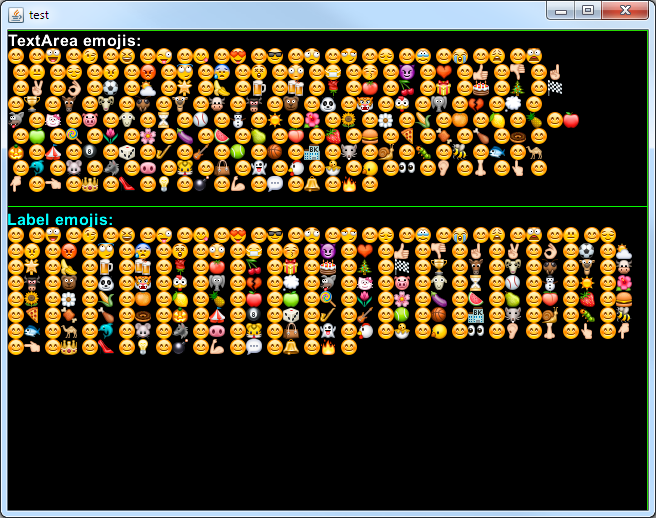
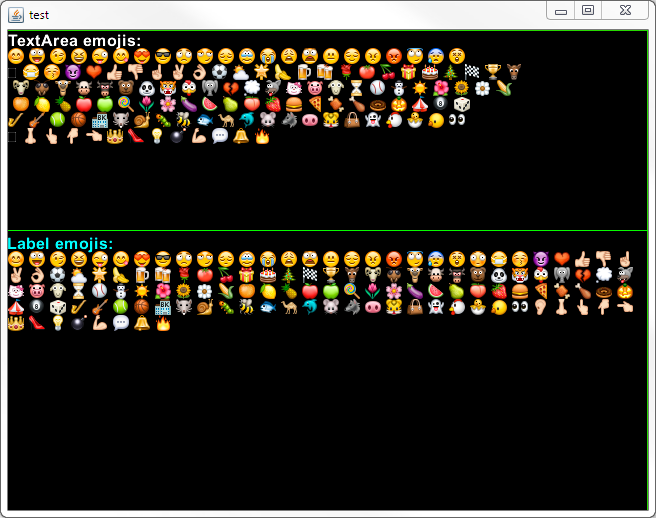
remove duplicate

diff --git a/src/main/java/com/libgdxemoji/EmojiTest.java b/src/main/java/com/libgdxemoji/EmojiTest.java
@@ -60,7 +60,7 @@ public class EmojiTest extends ApplicationAdapter {
 		
 		String text = "";
 		for (int code : Emoji.CODES) {
-			text += String.valueOf(Character.toChars(code)) + " " + '\uFFFF';
+			text += String.valueOf(Character.toChars(code)) + " ";
 		}
 		textArea.setText("TextArea emojis:\n" + text);		
 		
